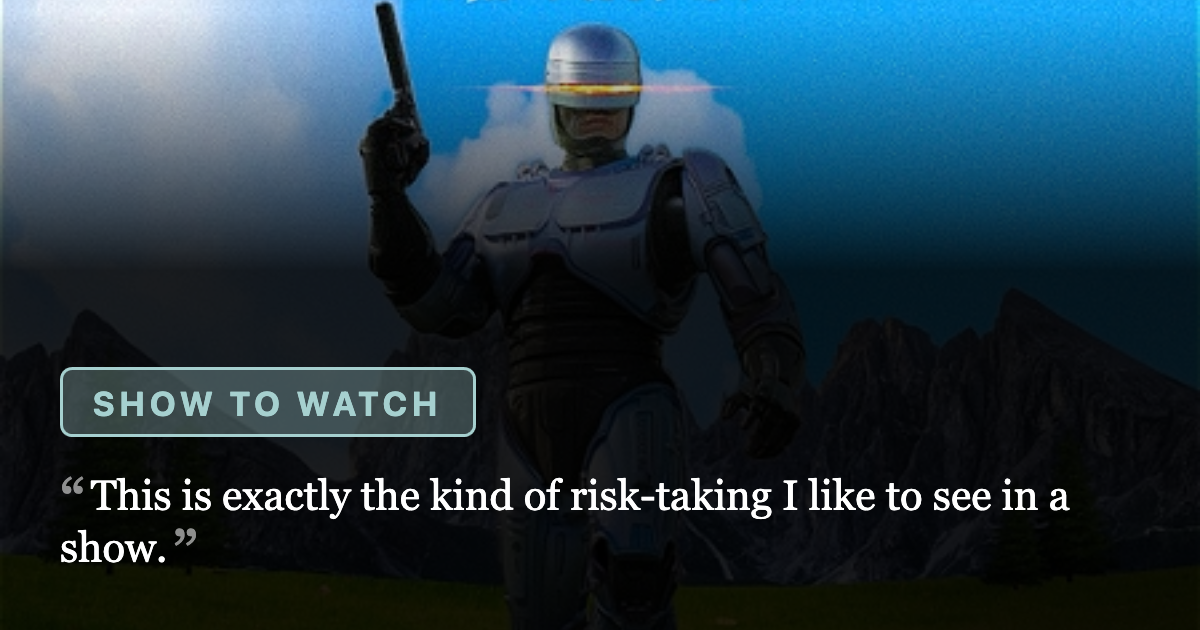
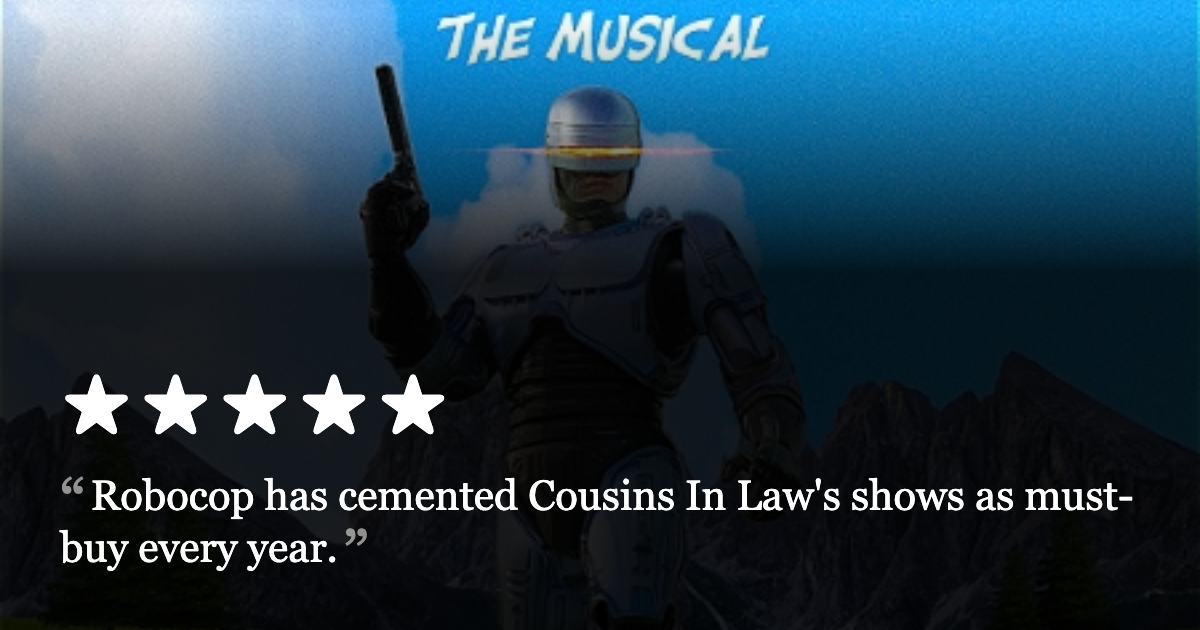
updates

diff --git a/resources/views/fringe/_availability-day-show.antlers.html b/resources/views/fringe/_availability-day-show.antlers.html
@@ -16,5 +16,11 @@
         {{ if reveal_numbers && !sold_out && !cancelled && !completed && (seats_free || seats_free === 0) }}
             &middot; {{ seats_free }} left{{ if pct_free || pct_free === 0 }} &middot; {{ pct_free }}%{{ /if }}
         {{ /if }}
+        {{# The show's ticket page — the ticket site has no per-performance deep link, so
+            this is as close as a buyer can land. Pointless once the showtime is cancelled
+            or has played. #}}
+        {{ if ticket_link && !cancelled && !completed }}
+            &middot; <a href="{{ ticket_link }}" target="_blank" rel="noopener" class="text-teal no-underline hover:underline whitespace-nowrap">Tickets</a>
+        {{ /if }}
     </span>
 </div>

diff --git a/app/Fringe/ShowScraper.php b/app/Fringe/ShowScraper.php
@@ -28,6 +28,13 @@ class ShowScraper
      * its prior numbers (or a blank placeholder) so the record still renders while it waits
      * its turn in `pending`, and scrape() replaces it.
      *
+     * The merge is a UNION, not a replace: a prior performance missing from the fresh list
+     * is kept with its last-known state. The schedule is the stable half of this data — the
+     * day pages place shows by it — and a flaky response must not shrink it; the site marks
+     * a cancelled showtime rather than removing it, so a disappearance is far more likely a
+     * partial response than a real deletion. (A truly deleted showtime would linger; accepted
+     * — cancellation is the honest signal and it survives the union.)
+     *
      * @param  array<int, array<string, mixed>>  $prior
      * @return array{records: array<int, array<string, mixed>>, pending: array<int, string>}
      */
@@ -88,6 +95,16 @@ class ShowScraper
             ];
             $pending[] = $performance['id'];
         }
+
+        $seen = array_flip(array_column($records, 'id'));
+
+        foreach ($prior as $priorRecord) {
+            if (! isset($seen[$priorRecord['id']])) {
+                $records[] = $priorRecord;
+            }
+        }
+
+        $records = collect($records)->sortBy('datetime')->values()->all();
 
         return ['records' => $records, 'pending' => $pending];
     }

diff --git a/app/Http/Controllers/FringeController.php b/app/Http/Controllers/FringeController.php
@@ -476,6 +476,12 @@ class FringeController extends Controller
                         'title' => $entry->value('title'),
                         'venue' => $venues[$venueId],
                         'review_url' => $entry->published() ? $entry->url() : null,
+                        // This showtime's own ticket page (/event/{event}/{performance}/),
+                        // so the buyer lands with the right performance preselected.
+                        'ticket_link' => TicketPage::performanceUrl(
+                            $record['event_id'] ?? TicketPage::eventId($entry->value('ticket_link')),
+                            $p['id']
+                        ),
                         ...ShowAvailability::shapePerformance($p, $revealNumbers),
                     ]);
             });

diff --git a/app/Fringe/TicketPage.php b/app/Fringe/TicketPage.php
@@ -76,6 +76,16 @@ class TicketPage
         return $m[1];
     }
 
+    /**
+     * The ticket page for one specific showtime — `/event/{eventId}/{performanceId}/`
+     * lands the buyer with that performance preselected. Undocumented but stable; the
+     * pattern came from a link the site itself produced.
+     */
+    public static function performanceUrl(string $eventId, string $performanceId): string
+    {
+        return self::HOST.'/event/'.$eventId.'/'.$performanceId.'/';
+    }
+
     public static function fetch(string $url): ?string
     {
         try {

diff --git a/content/collections/fringe_reviews/2026-08-17.2026-rodgers-and-hammersteins-robocop-the-musical.md b/content/collections/fringe_reviews/2026-08-17.2026-rodgers-and-hammersteins-robocop-the-musical.md
@@ -2,7 +2,7 @@
 id: fc393055-fa03-4617-ac2b-8e9190d58bb4
 blueprint: fringe_review
 title: "Rodgers and Hammerstein's ROBOCOP: The Musical"
-recommendation: watchlist
+recommendation: recommended
 ticket_link: 'https://tickets.fringetheatre.ca/event/601:7605/'
 venue: b6433859-1a00-4046-82ed-e144186cd03f
 artist: 620dc678-a8bc-446f-b013-2249d4b054fd
@@ -11,44 +11,36 @@ festival: '2026'
 categories:
   - musical
 updated_by: 9c6b6866-e047-4568-b3f4-71623caf17dd
-updated_at: 1786408779
+updated_at: 1787005583
 duration: 70
 companion_videos:
   - ede40468-0d2a-4156-be73-0af81b948f6b
 og_image: fringe/og/2026-rodgers-and-hammersteins-robocop-the-musical.png
+stars: 5
 content:
   -
     type: paragraph
     content:
       - type: text
-        text: 'This is a risky Fringe show.'
+        text: "If this show isn't held-over, I will print out this review and eat it."
   -
     type: paragraph
     content:
       - type: text
-        text: 'Looking at some early socials for the show, it appears to have a lot of musical theatre in-jokes, faithfully parodying Rodgers and Hammerstein.'
+        text: 'The Cousins In Law production sold out its entire run at Fringe and with an on-stage cast of eleven (!!!) they will be making about a dollar, and two bits each.'
   -
     type: paragraph
     content:
       - type: text
-        text: 'And... a lot of dick jokes. The potential for it to fall flat on its face is immense.'
+        text: "The show was a love-letter to Rodgers and Hammerstein, Robocop, 90s movies, and bad jokes. It's got surprisingly good dance numbers, costumes that themselves add to jokes and so, so much cocaine."
   -
     type: paragraph
     content:
       - type: text
-        text: 'This is exactly the kind of risk-taking I like to see in a show.'
+        text: "Coupled with this troupe's \"SPEED!\" A 1940's Radio Drama's sold-out run last year, Robocop has cemented Cousins In Law's shows as must-buy every year."
   -
     type: paragraph
     content:
       - type: text
-        text: "I didn't get to see this troupe's \"SPEED!\" A 1940's Radio Drama last year, but I caught "
-      -
-        type: btsPin
-        attrs:
-          id: TUOobYMq4zvflLMUbJSSj
-          values:
-            review: 9e36686d-8927-4ab5-818d-4fd484219e64
-            type: review_ref
-      - type: text
-        text: " which was co-written by Boyd, who's also co-writing here."
+        text: "(Sorry to everyone reading this review. You can't watch this show. Unless it's held over. Which it will be, or, see the top line of this review)"
 ---
